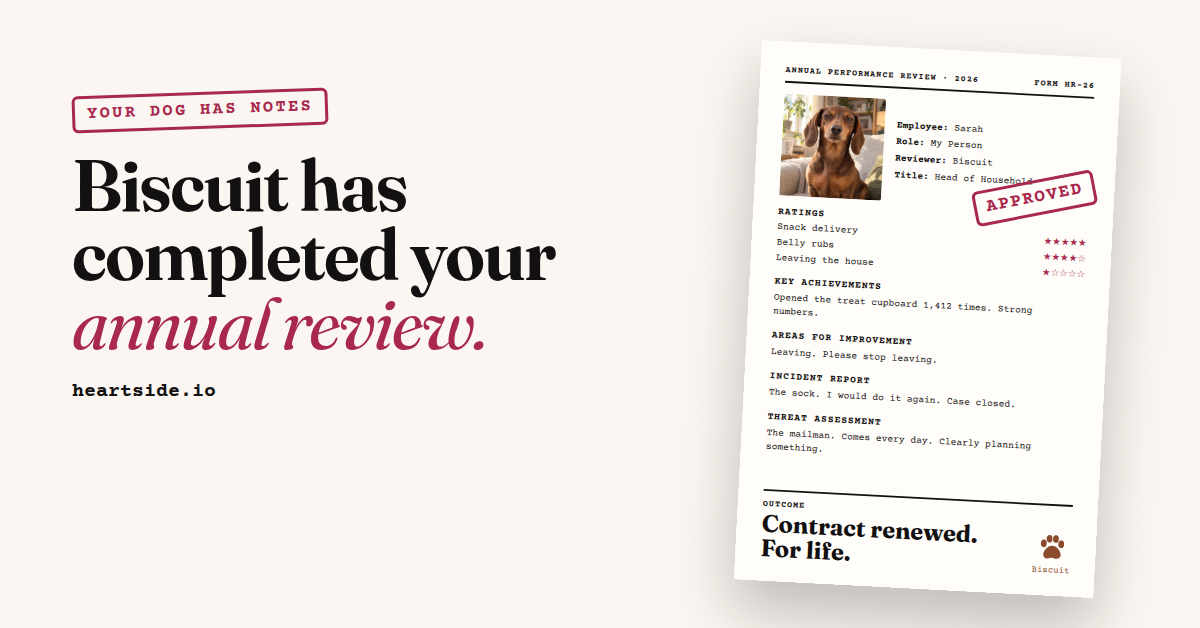
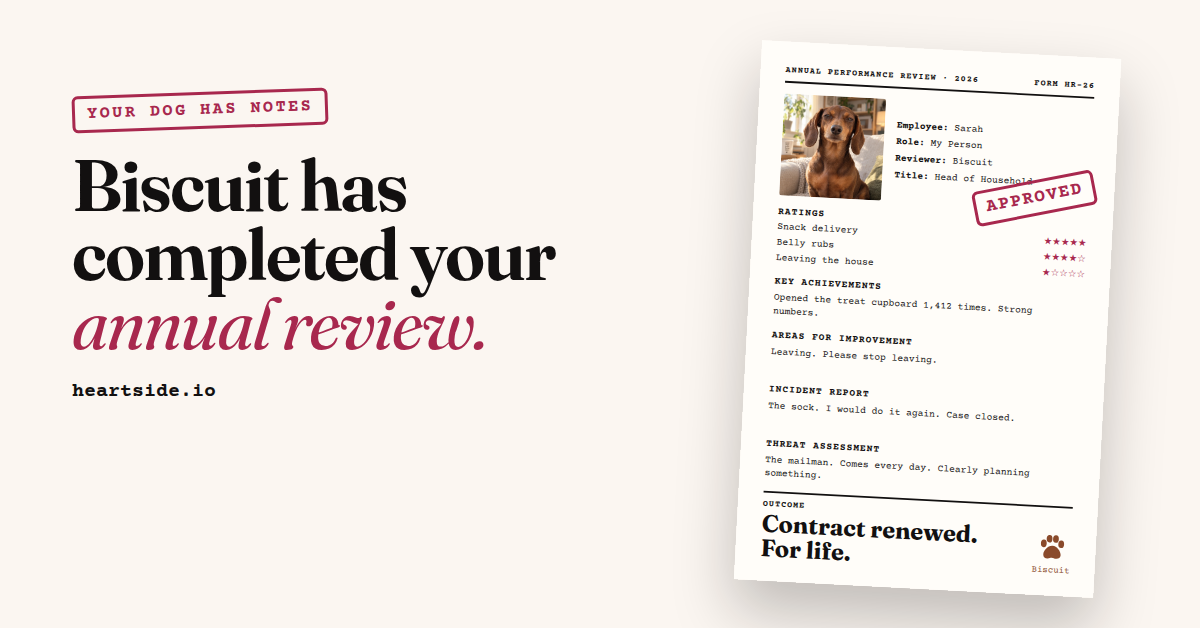
Give every poster joke line two lines of room, and add the funnel pixel
- Poster: each line that can wrap (key achievement, improvement, incident,
  threat) holds two lines at line height 1.4, so a two-line answer no longer
  crowds the next heading. The incident layer moves to y 3581 (was 3446) and the
  threat layer to y 4122 (was 3853); every other layer, the signature included,
  stays where it was. Poster.dc.html now carries the THREAT ASSESSMENT block the
  print already had. print.mjs regenerates the background, sample, layers.json
  and the 15 joke-line clipart PNGs (lines/<kind>/<Label>.png, 3096 x 269) from
  the same copy file the site uses, and refuses to write if a line needs three
  lines or the outcome loses its room.
- shopify/pixels/hs2-funnel.js: a Shopify custom pixel that forwards the
  theme's hs2_ funnel events to Meta (trackCustom) and TikTok (ttq.track), plus
  CustomizeProduct on approve. IDs are empty constants; empty means it does
  nothing. Names never leave the store. The workflow ignores pixels/.
- README: the product page with Teeinblue's block, the pixel install steps, the
  editor-edit guard, and the new copy for approval.

Claude-Session: https://claude.ai/code/session_01VSXMUdKNd8jScxXzQJSiAw

Changed region(s): [[0.6167, 0.5748, 0.8942, 0.8169]]

diff --git a/shopify/pixels/hs2-funnel.js b/shopify/pixels/hs2-funnel.js
@@ -1,0 +1,97 @@
+// Heartside funnel pixel: a Shopify custom pixel (Settings > Customer events > Add custom pixel).
+// Paste this whole file into the code box. shopify/README.md, "Funnel pixel", has the steps.
+//
+// The theme publishes its funnel steps with Shopify.analytics.publish('hs2_<name>', data)
+// (shopify/assets/hs2.js, function track). This pixel forwards them to Meta and TikTok as
+// custom events, so ads can be judged on the steps before checkout: who typed a name, how
+// far they got through the review, who approved it.
+//
+// Page views, add to cart, checkout and purchase are NOT sent here. Shopify's Facebook &
+// Instagram channel (and TikTok's channel, if installed) send those with their server-side
+// APIs. Sending them twice would double-count.
+//
+// Privacy: only the fields in SAFE below leave the store. The dog's name and the shopper's
+// name never do. In Shopify, set this pixel's permission to "Required: marketing", so it
+// only runs for shoppers who allow marketing cookies.
+
+// ---- Pixel IDs. Leave empty to switch a platform off; with both empty this does nothing. ----
+const META_PIXEL_ID = ''; // Meta Events Manager > Data sources > your pixel > Dataset ID (digits)
+const TIKTOK_PIXEL_ID = ''; // TikTok Events Manager > Web events > your pixel > Pixel ID
+
+// The events the theme publishes, as hs2_<name>
+const EVENTS = [
+  'hs2_name_entered',     // typed the dog's name in the hero
+  'hs2_review_step',      // moved to a step of the 5-step review ({ step })
+  'hs2_names_needed',     // pressed Approve with a name missing ({ missing })
+  'hs2_approve_clicked',  // approved the review and went to the poster
+  'hs2_photo_attached',   // attached the dog's headshot
+  'hs2_story_card',       // saved a free story card ({ card })
+  'hs2_caption_copied',   // copied the story caption ({ card })
+  'hs2_link_shared',      // shared the review link ({ card })
+  'hs2_faq_open',         // opened an FAQ ticket ({ question })
+];
+
+// Fields that may be forwarded. Anything else in the event data is dropped.
+const SAFE = ['step', 'card', 'question', 'missing'];
+
+// Approving the review is the shopper customizing the product, which both platforms have a
+// standard event for. Standard events can be optimized for without setting up a custom
+// conversion first, so this one is sent as both.
+const STANDARD = { hs2_approve_clicked: 'CustomizeProduct' };
+
+function clean(data) {
+  const out = {};
+  if (data && typeof data === 'object') {
+    for (const k of SAFE) {
+      if (data[k] !== undefined && data[k] !== null && data[k] !== '') out[k] = String(data[k]).slice(0, 100);
+    }
+  }
+  return out;
+}
+
+if (META_PIXEL_ID) {
+  /* eslint-disable */
+  !function (f, b, e, v, n, t, s) {
+    if (f.fbq) return; n = f.fbq = function () { n.callMethod ? n.callMethod.apply(n, arguments) : n.queue.push(arguments); };
+    if (!f._fbq) f._fbq = n; n.push = n; n.loaded = !0; n.version = '2.0'; n.queue = [];
+    t = b.createElement(e); t.async = !0; t.src = v; s = b.getElementsByTagName(e)[0]; s.parentNode.insertBefore(t, s);
+  }(window, document, 'script', 'https://connect.facebook.net/en_US/fbevents.js');
+  /* eslint-enable */
+  window.fbq('set', 'autoConfig', false, META_PIXEL_ID); // no automatic events from inside the sandbox
+  window.fbq('init', META_PIXEL_ID);
+}
+
+if (TIKTOK_PIXEL_ID) {
+  /* eslint-disable */
+  !function (w, d, t) {
+    w.TiktokAnalyticsObject = t; var ttq = w[t] = w[t] || [];
+    ttq.methods = ['page', 'track', 'identify', 'instances', 'debug', 'on', 'off', 'once', 'ready', 'alias', 'group', 'enableCookie', 'disableCookie', 'holdConsent', 'revokeConsent', 'grantConsent'];
+    ttq.setAndDefer = function (t, e) { t[e] = function () { t.push([e].concat(Array.prototype.slice.call(arguments, 0))); }; };
+    for (var i = 0; i < ttq.methods.length; i++) ttq.setAndDefer(ttq, ttq.methods[i]);
+    ttq.instance = function (t) { for (var e = ttq._i[t] || [], n = 0; n < ttq.methods.length; n++) ttq.setAndDefer(e, ttq.methods[n]); return e; };
+    ttq.load = function (e, n) {
+      var r = 'https://analytics.tiktok.com/i18n/pixel/events.js';
+      ttq._i = ttq._i || {}; ttq._i[e] = []; ttq._i[e]._u = r; ttq._t = ttq._t || {}; ttq._t[e] = +new Date; ttq._o = ttq._o || {}; ttq._o[e] = n || {};
+      var s = d.createElement('script'); s.type = 'text/javascript'; s.async = !0; s.src = r + '?sdkid=' + e + '&lib=' + t;
+      var f = d.getElementsByTagName('script')[0]; f.parentNode.insertBefore(s, f);
+    };
+    ttq.load(TIKTOK_PIXEL_ID); // no ttq.page(): the TikTok channel sends page views
+  }(window, document, 'ttq');
+  /* eslint-enable */
+}
+
+if (META_PIXEL_ID || TIKTOK_PIXEL_ID) {
+  EVENTS.forEach((name) => {
+    analytics.subscribe(name, (event) => {
+      const data = clean(event.customData);
+      if (META_PIXEL_ID && window.fbq) {
+        window.fbq('trackCustom', name, data);
+        if (STANDARD[name]) window.fbq('track', STANDARD[name], data);
+      }
+      if (TIKTOK_PIXEL_ID && window.ttq) {
+        window.ttq.track(name, data);
+        if (STANDARD[name]) window.ttq.track(STANDARD[name], data);
+      }
+    });
+  });
+}

diff --git a/design/Poster.dc.html b/design/Poster.dc.html
@@ -32,17 +32,21 @@
 </div>
 <div style="display: flex; flex-direction: column; gap: 5px; font-size: 16px; line-height: 1.4">
 <div style="font-weight: 700; letter-spacing: 0.1em">KEY ACHIEVEMENTS</div>
-<div>Opened the treat cupboard 1,412 times. Strong numbers.</div>
+<div style="min-height: 2.8em">Opened the treat cupboard 1,412 times. Strong numbers.</div>
 </div>
 <div style="display: flex; flex-direction: column; gap: 5px; font-size: 16px; line-height: 1.4">
 <div style="font-weight: 700; letter-spacing: 0.1em">AREAS FOR IMPROVEMENT</div>
-<div>Leaving. Please stop leaving.</div>
+<div style="min-height: 2.8em">Leaving. Please stop leaving.</div>
 </div>
 <div style="display: flex; flex-direction: column; gap: 5px; font-size: 16px; line-height: 1.4">
 <div style="font-weight: 700; letter-spacing: 0.1em">INCIDENT REPORT</div>
-<div>The sock. I would do it again. Case closed.</div>
+<div style="min-height: 2.8em">The sock. I would do it again. Case closed.</div>
 </div>
-<div style="margin-top: auto; border-top: 3px solid #121010; padding-top: 14px; display: flex; justify-content: space-between; align-items: flex-end">
+<div style="display: flex; flex-direction: column; gap: 5px; font-size: 16px; line-height: 1.4">
+<div style="font-weight: 700; letter-spacing: 0.1em">THREAT ASSESSMENT</div>
+<div style="min-height: 2.8em">The mailman. Comes every day. Clearly planning something.</div>
+</div>
+<div style="margin-top: auto; border-top: 3px solid #121010; padding-top: 11px; display: flex; justify-content: space-between; align-items: flex-end">
 <div style="display: flex; flex-direction: column; gap: 4px">
 <div style="font-size: 14px; font-weight: 700; letter-spacing: 0.12em">OUTCOME</div>
 <div style="font-family: 'Fraunces', serif; font-size: 40px; font-weight: 700; line-height: 1.02">Contract renewed.<br>For life.</div>

diff --git a/shopify/README.md b/shopify/README.md
@@ -95,7 +95,29 @@ Teeinblue has no documented prefill feature, so this was built against its store
   - **The field labels** in `docs/TEEINBLUE-SETUP.md`. A heading must contain "manager" or "dog's name", "employee" or "your name", "cupboard", "improvement", "incident" and "enemy".
   - **Teeinblue's markup:** `.tee-field`, `.tee-field__heading`, and `input[type=file]` for photos.
   - If Teeinblue changes either, the answers card still shows the answers, and the order still carries them as hidden properties.
-- **Where Teeinblue draws.** The product section tells Teeinblue to put its live preview at the top of the media column (`[data-hs2-tib-gallery]`) and to use the theme's form (`#hs2-product-form`). Its add to cart then carries the hidden answers too. When Teeinblue's preview appears, the theme's own live poster hides, so there is one preview.
+- **Placeholders never travel.** "Biscuit" and "Sarah" only fill the page until the shopper types. The approve link, the order's hidden answers and the bridge carry real answers only, so a poster can't print a stranger's name. Approve without both names goes back to step 1 with "HR needs your name for the file." (or the manager's name, or both), and opens a dog-name field there if the hero was skipped. The treat count (1,412) and the chips keep their defaults, because they print sensibly.
+- **Where Teeinblue draws.** The product section tells Teeinblue to put its live preview at the top of the media column (`[data-hs2-tib-gallery]`). When Teeinblue's preview appears, the theme's own live poster hides, so there is one preview.
+
+## The product page with Teeinblue's block (5 October)
+
+- **One add to cart.** With Teeinblue's app block on the page, the theme's button and variant select step aside and Teeinblue's "Add To Cart" is the only one. It is the only button that attaches the print file: on 5 October the theme's button posted the form straight to the cart with no personalization. The theme's form stays, hidden, with the order's hidden answers.
+- **One price.** The block's "Show price" is off in the templates, so the theme's price shows. It follows Teeinblue's picker through the `?variant=` Teeinblue writes to the address.
+- **A clean picker.** "Show available product options" is off. Options with one value hide (CSS). The section setting **Plain names for product options** renames the rest in Teeinblue's picker and in the theme's own: the review and landing templates use `Color: Frame | Size: Size`, so the framed poster asks for a **Frame** (Black, Red Oak, White) and the poster shows no picker.
+- **Descriptions.** Teeinblue rewrites the product description with Printful's text on every campaign update, so each **Description** block names a product and holds our copy for it. The block for this product wins, then a block with no product, then the product's own description.
+- **Links.** The homepage's poster links open `?view=review` and the benefits cards `?view=heartside`, so the flow works before the templates are assigned in admin, and still works after.
+
+## Funnel pixel (Meta and TikTok)
+
+`shopify/pixels/hs2-funnel.js` is a Shopify custom pixel. It forwards the theme's funnel events to Meta and TikTok as custom events: `hs2_name_entered`, `hs2_review_step` (with the step), `hs2_names_needed`, `hs2_approve_clicked`, `hs2_photo_attached`, `hs2_story_card`, `hs2_caption_copied`, `hs2_link_shared` and `hs2_faq_open`. Approving is also sent as the standard event `CustomizeProduct`, which both platforms can optimize for straight away. Page views, add to cart, checkout and purchase come from Shopify's Facebook & Instagram channel (and TikTok's, if installed); this pixel doesn't send them again. Names never leave the store: only the step, card, question and which name was missing.
+
+To install it:
+1. Copy the Meta pixel (dataset) ID from Meta Events Manager and, if TikTok ads will run, the pixel ID from TikTok Events Manager. Paste them into `META_PIXEL_ID` and `TIKTOK_PIXEL_ID` at the top of the file. Either can stay empty; with both empty the pixel does nothing.
+2. Shopify admin > **Settings > Customer events > Add custom pixel**, named "Heartside funnel".
+3. **Customer privacy:** Permission "Required: marketing", Data sale "Data collected qualifies as data sale".
+4. Paste the whole file into the code box, **Save**, then **Connect**.
+5. Test it: open the store, type a dog's name, step through the review. Meta Events Manager > Test events and TikTok's Pixel Helper should show the `hs2_` events. Customer events also has a **Test** button that logs each event.
+
+The workflow never pushes this file (`--ignore "pixels/*"`); it lives in the repo so it is versioned.
 - **Check once templates exist.** Open a product from the homepage after answering, and confirm that the fields fill, the headshot button works, and Teeinblue's preview sits in the media column. If the preview lands somewhere else, set the gallery selector to `[data-hs2-tib-gallery]` in Teeinblue's theme settings.
 
 ## Files
@@ -132,6 +154,16 @@ Teeinblue has no documented prefill feature, so this was built against its store
   - The photos from `assets/v2/`, as WebP at two sizes, built by `tools/build_shopify_assets.py`.
 
 ## New copy for Krish to approve
+
+Added on 5 October:
+- **The name nudge** (review step 1, shown when Approve is pressed without a name): "HR needs your name for the file.", "HR needs your manager's name for the file." and "HR needs both names for the file."
+- **Product descriptions** (Description blocks in the product templates). The facts in them (paper, frame, insert, size) are to check against Printful before launch.
+  - **The Annual Review:** "[Dog]'s review of your year, printed for the wall: your name, [Dog]'s headshot and the three notes you picked, on a 12 × 18 inch poster of thick matte paper. / Frame not included. [Dog] has requested one in next year's budget. Made after you order, and a person checks it before it prints. Free US shipping."
+  - **The Annual Review, Framed:** "The same review, framed and ready to hang. [Dog] felt the paperwork deserved it. / A 12 × 18 inch poster on thick matte paper, in a black, red oak or white wood frame, with the hanging hardware already on. Made after you order, and a person checks it before it prints. Free US shipping."
+  - **The Body Double:** "A 16-inch pillow with [Dog]'s face on both sides. For groomer days, vet days, and the occasional covert operation to the kitchen. / Square, printed edge to edge, insert included. Made after you order, and a person checks it before it prints. Free US shipping."
+  - **Tiny Me, For The Tree:** "[Dog], about three inches across, for the tree. The verdict runs in a ring around the photo: Overall rating: exceeds expectations. Contract renewed. For life. [Dog]'s name sits underneath. / Ceramic, with the same design on both sides, so it faces the room whichever way it turns. Made after you order, and a person checks it before it prints. Free US shipping."
+- **Benefits cards:** the Body Double tag "Square photo pillow · 16 in" with "A 16-inch pillow with [Dog]'s face on both sides. For groomer days, vet days, and the occasional covert operation to the kitchen." Tiny Me: "A ceramic ornament of [Dog], with [Dog]'s verdict on your year printed in a ring around the photo."
+- **Deadline row:** "Review poster and ornament" (was "Review poster, socks, ornament").
 
 Added on 4 October to make the page read like a shop:
 - **Hero:** "A personalized 12 × 18 inch poster of your dog's review of you, with their photo and your name. $39, free US shipping." The button reads "Make my poster".
@@ -172,17 +204,13 @@ The canvas copy is untouched. These lines are new, written to the comedy bible (
 On github.com/krishanraja/heartside: **Actions > Push homepage to a Shopify theme > Run workflow**, branch `main`, `theme_id` **197492998526**. The workflow refuses the live theme and any theme not named "Heartside launch".
 
 - **Files.** It only adds and updates files (`--nodelete`). The v1 ornament sections and snippets therefore stay in the theme, unused. Delete them in the code editor if they clutter the "Add section" list.
-- **Backup.** Before every push it saves the theme's templates and section groups as a run artifact (`theme-backup-…`, kept 30 days). The log says whether each template had theme-editor changes, because pushing `templates/*.json` replaces them. Once product pickers or images are set in the editor, copy those settings into `shopify/templates/` before the next push, or restore them from the backup.
+- **Backup and the editor-edit guard.** Before every push it saves the theme's templates, section groups, `settings_data.json` and the hs2 section files as a run artifact (`theme-backup-…`, kept 30 days). `.github/scripts/editor-edits.mjs` then compares each template with every committed version, ignoring settings the editor writes out at their default. If a template has theme-editor changes the repo doesn't, the push **stops**, because pushing `templates/*.json` replaces them. Copy those settings into `shopify/templates/` from the artifact, or rerun with **overwrite_editor_edits** to discard them. Tick **pull_only** to save the artifact without pushing anything. The footer group and `settings_data.json` (app embeds) are never pushed.
 - **Header.** Tick **header_memo_bar** to put the HS memo bar at the top of the header group and remove the v1 offer bar ("30% off and free US shipping until November 1."). Any other announcement bar is hidden, not deleted. The script is `.github/scripts/header-memo.mjs`.
 
 ## After deploying, in the theme editor (Heartside launch > Customize)
 
 1. **Header layout:** Helio lays its header over the hero on the homepage. `hs2.js` pads the hero by the overlap, so nothing collides. The cleaner fix is to turn off the transparent or overlay header in Helio's header settings, which gives the logo its own row (`docs/V2-FROM-THE-DOG.md` section 7). Point the main menu at `#review` "Your review", `#benefits` "Benefits package" and `#closure` "Christmas deadlines".
-2. **Product pickers:**
-   - In the review builder and the leak section, choose the Annual Review product.
-   - In each benefits card, choose its product.
-   - Assign the product templates (Products > each product > Theme template): **review** for the poster and framed poster, **heartside** for the rest.
-   - Add Teeinblue's app block to both product templates, between "Homepage answers" and "Add to cart".
+2. **Product pickers and Teeinblue:** done in the repo since 5 October (the review builder, leak section and benefits cards point at their products; Teeinblue's block sits in all three product templates). One step is left for after Krish publishes: assign the product templates (Products > each product > Theme template), **review** for the poster and framed poster, **heartside** for the rest. The homepage links already open those templates with `?view=`, so nothing breaks before then.
 3. **Placeholders:** replace `[DATE]` and `[… SHOT]` only when the real date or image exists (see below).
 
 ## Placeholders left in place
@@ -205,7 +233,8 @@ On github.com/krishanraja/heartside: **Actions > Push homepage to a Shopify them
   - All four story cards download. The phone tap zones cycle the cards, and the caption and link copy to the clipboard.
   - The approve link carries every answer, and the product page shows them and fills the order properties.
   - On the stand-in Teeinblue form, all six fields fill, the headshot reaches Teeinblue's upload, and an edit in Teeinblue updates the order property.
-  - The sticky pill hides over the builder and the help desk's closing button. The variant picker updates the price.
+  - The sticky pill hides over the builder and the help desk's closing button.
+  - The 5 October bugs, each with its own `BUG n` line: Approve with no names stays on step 1 with the nudge and never carries "Sarah" (link, hidden answers, Teeinblue); a chip then Next lands on the next step and stays there; the framed poster shows one price, a "Frame" picker and one add to cart, and its price and variant follow the picker; the poster shows no picker; without Teeinblue the theme's own picker reads "Frame: Black, Red Oak, White"; each product shows its own description, and Printful's when none is written.
 - **Teeinblue's real code:** the bridge and the headshot hand-off ran against Teeinblue's live demo store (see above).
 - **Copy:** every visible string in `design/Main.dc.html` is present word for word. The only changes are the alt texts of the old stand-in photos, which now describe the real photos.
 - **On the real store:** after each deploy the Heartside launch preview (`?preview_theme_id=197492998526`) is loaded in Chromium at 390 px and 1440 px.

diff --git a/docs/TEEINBLUE-SETUP.md b/docs/TEEINBLUE-SETUP.md
@@ -106,11 +106,12 @@ For it to work:
 | Employee name | 1968 | 725 | auto | 108 | Courier Prime Regular, 96 px, `#121010`, left |
 | Reviewer (dog's name) | 1968 | 1056 | auto | 108 | Courier Prime Regular, 96 px, `#121010`, left |
 | Key achievement | 252 | 2498 | 3096 | 269 | Courier Prime Regular, 96 px, `#121010`, wraps. Text: `Opened the treat cupboard {cupboard} times. Strong numbers.` |
-| Improvement line | 252 | 3039 | 3096 | 134 | As above, wraps to 2 lines |
-| Incident line | 252 | 3446 | 3096 | 134 | As above, wraps to 2 lines |
-| Threat line | 252 | 3853 | 3096 | 269 | As above, wraps to 2 lines |
+| Improvement line | 252 | 3039 | 3096 | 269 | Clipart `lines/improvement/<Label>.png`, two lines of room |
+| Incident line | 252 | **3581** (was 3446) | 3096 | 269 | Clipart `lines/incident/<Label>.png`, two lines of room |
+| Threat line | 252 | **4122** (was 3853) | 3096 | 269 | Clipart `lines/enemy/<Label>.png`, two lines of room |
 | Signature (dog's name) | 2970 | 5094 | 378 | 102 | Courier Prime Regular, 90 px, `#8A4A2B`, centred under the paw |
 
+- **The joke lines are clipart.** `design/poster-template/lines/<kind>/<Label>.png`, 15 transparent PNGs at 3096 × 269: two lines of Courier Prime 96 px at line height 1.4, copy from `shopify/snippets/hs2-lines.liquid`. Since 5 October every joke line has two lines of room before the next heading, so a two-line answer no longer crowds it. **Move the incident layer to y 3581 and the threat layer to y 4122, and upload the new `poster-background.png` and the 15 PNGs.** Every other layer keeps its position.
 - **If Teeinblue can't put fixed text around a field** (the Key achievement line), let the whole sentence be the layer, with the cupboard number as its only variable part.
 - **One addition to `Poster.dc.html`:** a THREAT ASSESSMENT block. The homepage asks for the "known enemy" and shows it on the live preview, so the print has to show it too. If Krish wants the print exactly as the canvas, delete the block and the enemy dropdown together.
 
